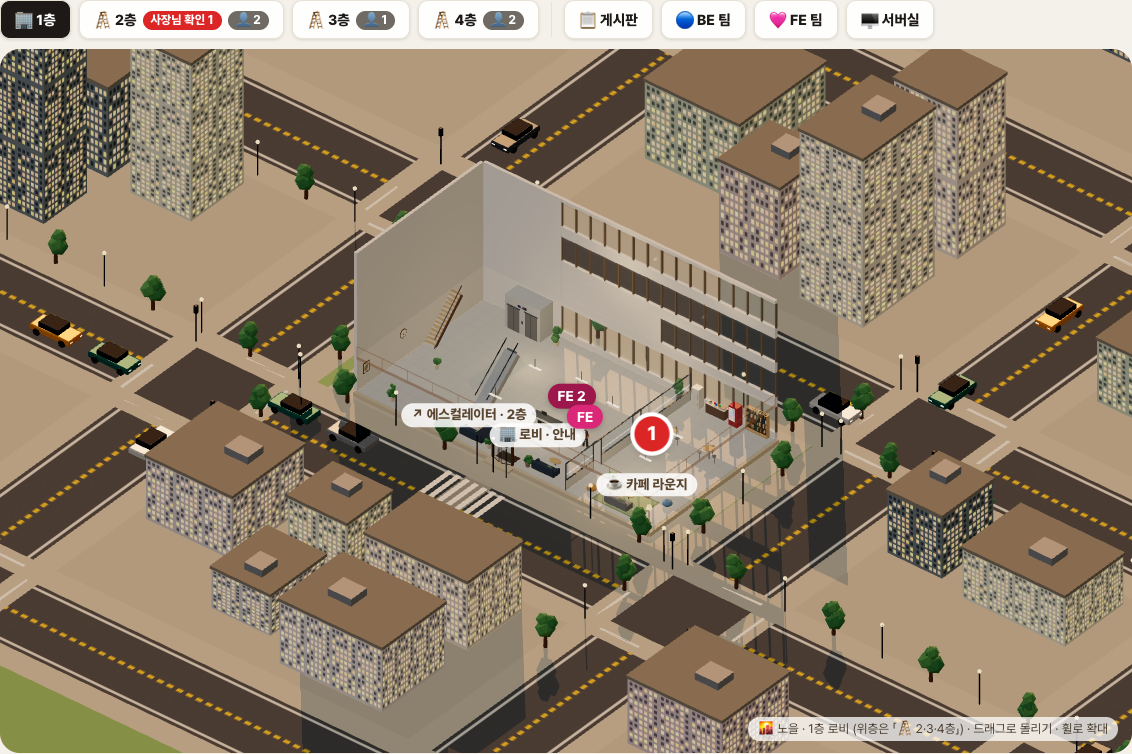
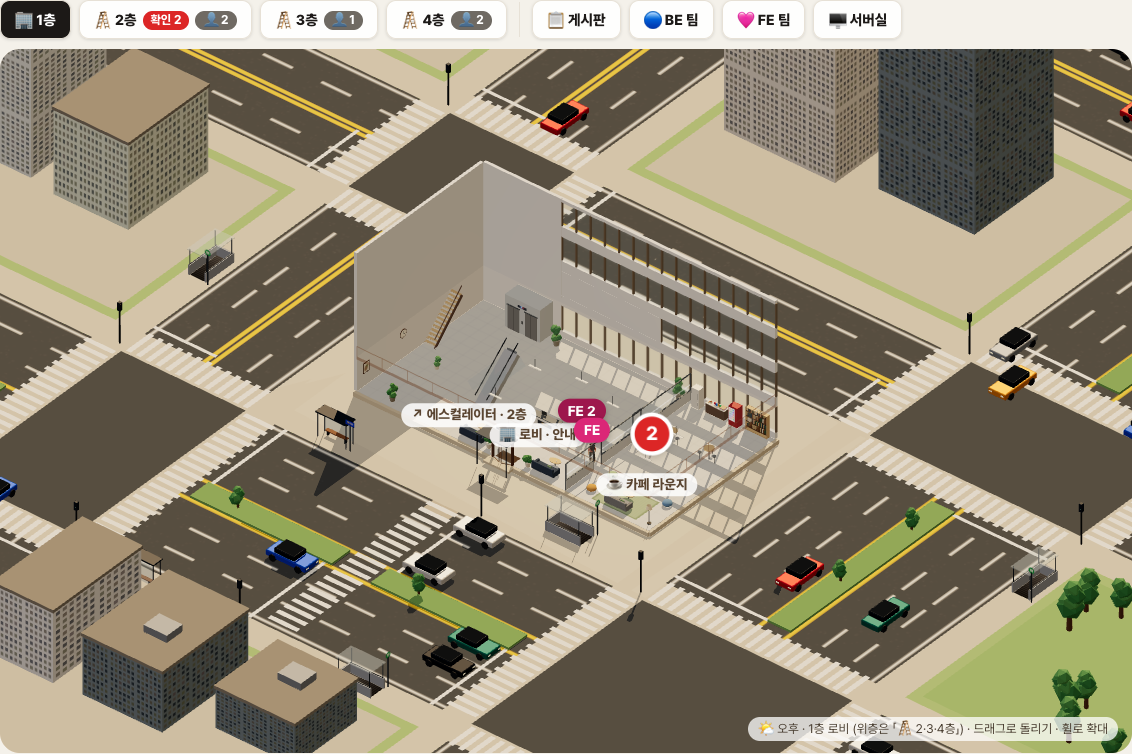
docs(be): 10월 개발분 반영 — 트러블슈팅 §28~32·결정 §23~26, 에이전트 사무실(강남식 도로·날씨·오더 첨부·보류·라벨 상태 버그)
서비스
- 트러블슈팅 §28 홈 p99 — 페르소나 9칸 통째 읽기 → 쓰는 칸만(데이터 −89%, 5초 초과 하루 26.7 → 15~18)
  §29 외부 API 대기 무제한 + 트랜잭션 안 호출(카카오 로그인, 광고 수집 배치) §30 모델 세대별 tool_choice 400
  §31 리포트 캐시 버전 경합 §32 IDENTITY 즉시 INSERT 로 같은 말이 AI 입력에 두 번(에이전트 파이프라인이 찾아 고친 건)
- 결정 §23 휴면 후보 제외 + 모자랄 때만 채우기(응답률 11.3 → 25.9%) §24 조회 알림 2시간 묶음(조건부 UPDATE 차지)
  §25 신규 홈 A/B — 진 실험과 forced_variant 종료 §26 「같은 선택」 일치율 기준 + 섞기
- README 운영 범위(랜덤TALK·실험 틀·휴면 채우기·조회 알림 묶음), 트러블슈팅 32건

에이전트 사무실(docs/agent/agent-office.md)
- §8 바깥: 도로를 데이터로(큰길 편도 3차로·중앙 녹지), 교차로·정지선·우측통행·버스·지하철·날씨, 스크린샷 3장
- §12 오더와 카드: 캡처 첨부(맥에만 저장), 보류 라벨, 라벨 정리를 한 입구에만 둔 버그 2건

diff --git a/docs/agent/agent-office.md b/docs/agent/agent-office.md
@@ -17,11 +17,12 @@
 5. [사람 — 에이전트 7명과 직원 18명](#5-사람--에이전트-7명과-직원-18명)
 6. [서버실 — PLG·Uptime Kuma 연동](#6-서버실--plguptime-kuma-연동)
 7. [탕비실 커피머신 — 에이전트 사용량](#7-탕비실-커피머신--에이전트-사용량)
-8. [바깥 — 도로·신호등·차](#8-바깥--도로신호등차)
+8. [바깥 — 강남식 도로·버스·지하철·날씨](#8-바깥--강남식-도로버스지하철날씨)
 9. [3D 모델 — GPT 로 절차적 생성](#9-3d-모델--gpt-로-절차적-생성)
 10. [맥 mini 한 대에서 가볍게 돌리기](#10-맥-mini-한-대에서-가볍게-돌리기)
 11. [점검 방법](#11-점검-방법)
-12. [밟은 함정](#12-밟은-함정)
+12. [오더와 카드 — 라벨이 곧 상태다](#12-오더와-카드--라벨이-곧-상태다)
+13. [밟은 함정](#13-밟은-함정)
 
 ---
 
@@ -31,12 +32,13 @@
 |---|---|
 | 에이전트가 자리에 앉아 타이핑하고 머리 위에 말풍선이 뜬다 | 그 역할의 Claude 세션이 지금 도구를 쓰는 중이고, 말풍선은 지금 하는 일(「`OrderService.java` 수정」「테스트 실행」) |
 | 에이전트가 2층 대표실 서류함으로 걸어간다 | 사람 승인이 필요한 카드가 생겼다(PR 머지·기획 질문) |
-| 층 버튼의 빨간 배지 「사장님 확인 2」 | 승인 대기 카드 수 |
+| 층 버튼의 빨간 배지 「확인 2」 | 승인 대기 카드 수 |
 | 4층 서버실 랙의 경광등이 주황·빨강으로 바뀐다 | 운영 서버 5xx·응답 지연·DB 연결 포화(§6) |
 | 3층 탕비실 커피머신 「커피 남은 양 · 5시간 76% · 7일 52%」 | 에이전트 계정의 남은 사용량(§7) |
 | 직원 18명이 일하고 커피를 마시고 회의실에 다녀온다 | 장식. 에이전트가 쉬는 동안에도 사무실이 비어 보이지 않게 |
+| 바깥에 차·버스가 다니고 가끔 비·눈이 온다 | 장식(§8). 운영 데이터와는 무관 |
 
-화면 오른쪽에는 운영 패널이 붙어 있다. 오더 넣기(평소 말투로 요청을 쓰면 PM 에이전트가 이슈로 만든다), PM 자율 점검, 일하는 중인 에이전트와의 대화창, 「사장님이 볼 것」 목록이 있다. 이 문서는 왼쪽 3D 화면과 그 뒤 데이터 연결을 다룬다.
+화면 오른쪽에는 운영 패널이 붙어 있다. 오더 넣기(평소 말투로 요청을 쓰고 캡처를 붙이면 PM 에이전트가 이슈로 만든다), PM 자율 점검, 일하는 중인 에이전트와의 대화창, 「사장님이 볼 것」·「진행 중」·「⏸ 보류」 목록이 있다. 이 문서는 왼쪽 3D 화면과 그 뒤 데이터 연결을 주로 다루고, 패널 쪽은 §12 에서 라벨 상태 관리만 다룬다.
 
 ## 2. 전체 구조
 
@@ -236,26 +238,47 @@ DB 랙은 「대기 > 0」이면 바로 빨강이다. 커넥션 풀에서 대기
 - 결과는 5분 캐시한다. 토큰은 이 호출에만 쓰고 응답·로그에 남기지 않는다.
 - ⚙ 설정 창에서 계정별 사용량과 초기화 시각을 본다.
 
-## 8. 바깥 — 도로·신호등·차
+## 8. 바깥 — 강남식 도로·버스·지하철·날씨
 
-건물만 있으면 허공에 떠 보여서 도시 블록을 둘렀다.
+건물만 있으면 허공에 떠 보여서 도시 블록을 둘렀다. 처음엔 왕복 2차로 고리 하나였는데, 「강남 같은 큰길」을 주문받아 도로를 **데이터로** 다시 짰다.
 
-- **도로 고리 2개**(안쪽·바깥쪽)와 인도·횡단보도, 교차로 바닥과 정지선을 깔았다. 블록마다 빌딩 높이를 다르게 하고, 화면 앞쪽과 오른쪽 블록은 낮게 둬서 사무실을 가리지 않게 했다. 일부 블록은 공원이다.
-- **신호등**: 안쪽 교차로에만 세웠다. 가로 방향과 세로 방향이 12초씩 번갈아 초록이 된다. 신호 판정은 `Date.now()` 로 계산하므로 탭을 오래 숨겼다 돌아와도 어긋나지 않는다.
-- **차 24대**: 차선마다 한 방향으로 돈다. 빨간불이면 다음 교차로 정지선 앞에서 서고, 이미 정지선을 넘었으면 그대로 지나간다. 같은 차선의 앞차와는 6m 간격을 둔다.
+| 1층 로비와 건물 앞 큰길 | 밤 |
+|---|---|
+| ![도시](./images/agent-office/office-city.png) | ![밤](./images/agent-office/office-night.png) |
+
+### 도로는 숫자 넷으로
 
 ```js
-// 빨간불이면 다음 교차로 정지선 앞에서 선다
-if (c.axis !== signalAxis) for (const k of (c.axis === "x" ? XS : ZS)) {
-  const gap = (k - c.dir * STOP - c.s) * c.dir - 2.1;
-  if (gap > -0.5 && gap < move + 0.05) { move = Math.max(0, Math.min(move, gap)); break; }
-}
-// 앞차와 간격(같은 차선)
-for (const o of CARS) { if (o === c || o.axis !== c.axis || o.at !== c.at) continue;
-  const gap = (o.s - c.s) * c.dir - 6.0; if (gap > -4 && gap < move) move = Math.max(0, gap); }
+const LANE = 3.2, SIDE_W = 3.0, CW = 3.0;   // 차로 폭·인도 폭·횡단보도 폭
+const RD = (axis, c, lanes, median = 0) => ({axis, c, lanes, median, w:2 * lanes * LANE + median, hw:lanes * LANE + median / 2});
+const RF = RD("x", 26, 3, 2.4), RB = RD("x", -20, 2), RL = RD("z", -27, 2), RR = RD("z", 31, 3, 2.4);   // 앞·오른쪽은 큰길(편도 3차로 + 중앙 녹지)
 ```
 
-- 시간대에 따라 하늘과 조명이 바뀐다(오전·오후·노을·밤). 밤에는 빌딩 창에 불이 켜진다.
+길 하나를 「방향·가운데 위치·편도 차로 수·중앙 분리대 폭」으로 적으면 나머지가 전부 여기서 나온다.
+
+- **노면 그림**: 길마다 캔버스 텍스처를 그린다(1m = 8px). 바깥 흰 실선, 차로 사이 흰 점선, 분리대가 없으면 가운데 노란 겹실선, 있으면 분리대 양옆 노란 실선.
+- **중앙 분리대**: 교차로와 횡단보도 자리를 비운 구간만 화단 상자 + 작은 나무로 채운다. 「엇갈리는 길 목록 → 비울 구간」을 정렬해 사이만 깐다.
+- **교차로**: 엇갈리는 두 길의 폭으로 바닥을 덮고, 네 방향 모두 횡단보도. 정지선은 횡단보도 앞, **들어오는 쪽 차로에만** 긋는다.
+- **블록**: 길 가장자리 + 인도로 띠를 잘라 남는 칸이 블록이다. 가운데 칸(우리 건물)은 통째로 인도라서 건물 앞이 7m 남짓한 광장이 된다.
+- **가로수·가로등**: 연석을 따라 8m 간격. 교차로·횡단보도·버스 정류장·지하철 출입구 자리는 「예약 영역」으로 두고 비켜 심는다.
+
+### 차·버스·신호
+
+- **우측통행**: 차로 위치는 `laneAt(길, 방향, i) = c ± (median/2 + (i + 0.5)·LANE)`. 가로 길에서 +x 로 가는 차는 +z 쪽 차로다(진행 방향 × 위쪽 = 오른쪽).
+- **정지 지점은 길마다 목록**이다. 엇갈리는 길의 정지선 + 건물 앞 큰길 한가운데 횡단보도. 빨간불이면 다음 정지 지점 앞에 서고, 이미 넘었으면 그냥 지나간다. 신호는 `Date.now()` 로 계산해 탭을 오래 숨겼다 돌아와도 어긋나지 않는다(가로·세로 14초씩).
+- **차 길이를 반영한 간격**: 버스(9.6m)를 넣자 고정값 「앞차와 6m」로는 뒤차가 버스에 박혔다. 간격과 정지선 거리를 `(앞차 길이 + 내 길이)/2 + 2m`, `내 길이/2` 로 바꿨다.
+- **버스**: 큰길 바깥 차로를 돌다 정류장 앞에서 7초 서고 간다(한 바퀴에 한 번). 정류장은 길 양쪽, 유리벽·지붕·의자·표지판.
+- **지하철 출입구 4곳**: 건물 앞 광장, 큰길 건너편, 좌우 길 건너. 내려가는 계단(단마다 어두워지는 텍스처)·난간·유리 지붕·「M」 간판. 간판은 가로등과 같은 목록에 넣어 밤에 빛난다.
+- 차는 70여 대다. 앞차 찾기가 O(n²)지만 70²이면 프레임당 5천 번 남짓이라 그대로 뒀다.
+
+### 날씨
+
+![비](./images/agent-office/office-rain.png)
+
+- **40분 단위로 정하고, 같은 시간대면 창마다 같다.** 난수 대신 `slot = floor(now / 40분)` 의 해시로 고른다. 계절 확률: 10월 비 18%·눈 3%, 12~2월 비 4%·눈 22%.
+- **비 = 선분 2,600개**(LineSegments, 위·아래 점 한 쌍), **눈 = 점 1,800개**(Points, 원형 그라데이션 텍스처, 좌우로 흔들림). 위치 배열을 프레임마다 직접 갱신한다.
+- **건물 안에는 안 내린다.** 위층을 숨기고 내려다보는 화면이라, 건물 위에도 내리면 사무실 안에 비가 온다. 입자를 다시 놓을 때 건물 바닥 영역 밖에서만 뽑는다.
+- 비·눈이면 하늘을 잿빛으로 섞고 햇빛을 45% 로 줄인다. `?weather=rain|snow|clear` 로 미리 본다.
 
 ## 9. 3D 모델 — GPT 로 절차적 생성
 
@@ -327,7 +350,37 @@ image-to-3D 모델이나 외부 3D 생성 서비스는 쓰지 않았다. 대신 
 
 캡처는 Chrome 원격 디버깅(CDP)으로 페이지를 열고 **35초 기다린 뒤** 찍는다. `--screenshot` 옵션으로 바로 찍으면 GLB 25개가 아직 로딩 중이라 사람이 없는 사무실이 찍힌다.
 
-## 12. 밟은 함정
+## 12. 오더와 카드 — 라벨이 곧 상태다
+
+일의 상태는 GitHub 이슈 라벨이다(`명세 → 착수 → 준비 완료 → BE 작업 → BE 완료 → QA → 승인 대기`, 막히면 `막힘`). 사무실 화면도, 일꾼(`worker.sh`)도 라벨만 보고 움직인다. 그래서 **라벨을 떼고 붙이는 모든 경로가 상태 전이**이고, 한 경로라도 정리를 빼먹으면 화면이 거짓말을 한다.
+
+### 오더에 캡처 붙이기
+
+- 오더 칸에 붙여넣기(⌘V)·끌어 놓기로 최대 5장. 5MB 가 넘으면 브라우저에서 긴 변 2400px JPEG 로 줄여 보낸다. 서버는 MIME·크기를 **이슈를 만들기 전에** 검사한다(잘못된 첨부로 이슈만 생기지 않게).
+- 이미지는 **깃허브에 올리지 않는다.** 이슈 API 에는 공식 첨부 업로드가 없고, 에이전트는 같은 맥에서 돌기 때문이다. `~/work/orders/<이슈>/1.png` 에 두고, PM·담당 프롬프트에 경로를 붙이고 `claude -p --add-dir ~/work/orders` 로 읽기를 연다. PM 지시문에는 「이미지가 가리키는 것을 명세 본문에 글로 풀어 적어라」를 넣었다 — 뒤 담당이 이미지 없이도 일할 수 있게.
+- 뒷정리 스크립트(10분마다)가 이슈가 닫히고 7일, 열려 있어도 30일 지난 폴더를 지운다. 날짜만 보면 진행 중인 오더의 이미지가 지워진다.
+
+### 보류 — 덮어쓰는 라벨
+
+`agent:보류` 는 단계 라벨을 **떼지 않고 덧붙인다.** 그래서 풀면 하던 단계 그대로 이어진다.
+
+```bash
+# worker.sh — 할 일 후보에서 보류를 먼저 거른다(jq)
+[.[] | {n:.number, c:.createdAt, l:[.labels[].name]} | select(has("agent:보류")|not) | $mode as $m | ...]
+```
+
+화면 쪽은 `colsOf()`(게시판 칸)와 `holder_of()`(넘김 이력) 맨 앞에서 보류를 판정해 목록에서 빼고, 접힌 「⏸ 보류」 칸에만 보인다.
+
+### 라벨 정리를 빼먹은 경로 두 개
+
+1. **질문했더니 카드가 「접수」로 돌아갔다(#75).** 카드에서 「다시 맡기기」로 질문하면 `승인 대기` 를 떼고 `질문` 을 붙인다(PM 이 담당에게 고칠 걸 넘길 수 있게). PM 이 「고칠 것 없음」이라고 답만 하면 `질문` 만 떼고 끝났다. 단계 라벨이 하나도 안 남아 화면 판정이 기본값(PM·접수)으로 떨어졌고, 머지만 남은 카드가 사장님 목록에서 사라졌다.
+   → 뗄 때 **실제로 붙어 있던 단계 라벨을 기록**해 두고(`~/work/state/redo-prev/<이슈>.json`), PM 이 답만 하면 되붙인다. 다시 맡기면 기록을 버린다.
+2. **작업 중인데 「맡길지 사장님」으로 떴다(#79).** PM 자율 점검이 올린 일은 `발견 대기`(맡기기 전) 라벨을 달고, 「▶ 맡기기」 버튼이 이걸 뗀다. 그런데 「다시 맡기기」로 시작하면 PM 이 `준비 완료` 만 붙이고 `발견 대기` 는 남겼다. 화면은 `발견 대기` 를 최우선으로 사장님 칸에 보내므로 FE QA 중인 카드가 사장님 목록에 떴다.
+   → 「담당에게 넘김」 분기에서 `발견 대기` 도 같이 뗀다.
+
+두 버그 모두 **같은 상태(일 시작)에 들어가는 입구가 둘인데 정리는 한 입구에만 있었던** 경우다. 라벨을 상태로 쓰면 상태 머신이 코드 한곳에 모이지 않는다. 그래서 입구가 하나 늘 때마다 「이 상태에 들어갈 때 떼야 할 라벨」을 같이 적어 둔다.
+
+## 13. 밟은 함정
 
 | 증상 | 원인 | 해결 |
 |---|---|---|
@@ -336,6 +389,10 @@ image-to-3D 모델이나 외부 3D 생성 서비스는 쓰지 않았다. 대신 
 | 버튼을 옮긴 뒤 화면이 세로로 늘어났다 | `window.resize` 만 들어서 부모 높이 변화를 못 봤다 | `ResizeObserver` |
 | 사무실이 늘 비어 보였다 | 에이전트가 일이 없으면 휴게 공간으로 가 앉아 있게 했다 | 기본을 「자리에서 일하기」로 바꾸고, 쉬는 행동은 2~5분에 하나 |
 | 헤드리스 캡처에 사람이 없었다 | 모델 로딩 전에 찍혔다 | CDP 로 열고 35초 대기 후 캡처 |
+| 버스를 넣자 뒤차가 버스에 박혔다 | 앞차 간격·정지선 거리가 차 길이 4.1m 기준 상수(6m, 2.1m) | 차마다 `len` 을 두고 `(앞차+내 길이)/2 + 2m`, `내 길이/2` |
+| 비가 사무실 안에 내렸다 | 위층을 숨긴 내려다보기 화면이라 지붕이 없다 | 입자를 건물 바닥 영역 밖에서만 뽑음 |
+| 도시를 새로 짜자 페이지가 안 떴다 | 바깥 구역에 쓴 `SW`·`freeSpot`·`flat` 이 건물 구역 이름과 겹쳐 `already declared` | 바깥 구역 이름을 구체적으로(`SIDE_W`·`curbFree`·`flatAt`). 한 파일 한 스코프의 대가 |
+| 질문 후 카드가 「접수」로, 작업 중 카드가 「사장님 확인」으로 | 라벨 정리가 상태에 들어가는 입구 하나에만 있었다 | §12 |
 
 ---
 

diff --git a/docs/ops/troubleshooting.md b/docs/ops/troubleshooting.md
@@ -670,6 +670,73 @@ UPDATE users SET af_registration_sent_at = :now WHERE id = :userId AND af_regist
 
 **교훈** — §25 의 판정 자체(조회 대신 조건부 UPDATE 한 문장)는 맞았습니다. 틀린 건 **판정의 근거로 삼은 값이 다른 경로에 의해 되돌려질 수 있다**는 점을 못 본 것입니다. "이 전이는 한 번뿐"이라는 전제는 그 칼럼을 아무도 되돌리지 않는다는 가정 위에 서 있고, 그 가정은 엔티티 전체를 저장하는 코드 한 줄로 깨집니다. 멱등의 근거는 **그 의미만 가진 전용 칼럼**에 두는 편이 안전합니다. → [함정 B-4](./pitfalls.md)
 
+## 28. 홈이 가끔 5초 넘게 멈췄다 — 카드에 한 줄 쓰려고 후보 수백 명의 JSON 9칸을 통째로 읽었다
+
+**증상** — 운영 nginx 로그(9/29~10/6, 홈 추천 두 API 14,261건): p50 0.14초인데 p99 6.55초, 5초 넘는 요청이 하루 25건 남짓. 대표 계정이 홈에서 29.5초 멈춘 날도 있었습니다.
+
+**원인** — 홈 카드에 필요한 건 페르소나의 **성격 한 줄**인데, 후보 조립 코드가 후보 전원의 페르소나 엔티티를 통째로 읽었습니다. 페르소나는 LONGTEXT 9칸(운영 평균 약 10.8KB)이라 후보 수백 명이면 수 MB 입니다. 공용 DB 의 버퍼 풀(128MB)에 이게 자주 밀려나 디스크를 읽었습니다.
+
+**처리** — 화면마다 **쓰는 칸만** 조회하는 프로젝션 3개를 만들었습니다(추천 카드 = 성격, 오늘의 인연 = 유형명, 홈 테마·피드 = 축 점수). 조건은 기존 조회(`user inner join`, 활성만)와 똑같이 두고, 로컬 DB 전원을 대상으로 **예전 조회와 새 조회의 결과가 같은지** 테스트로 고정했습니다. 응답 형태는 그대로라 앱 변경이 없습니다.
+
+| 로컬 실측(395명) | 전 | 후 |
+|---|---|---|
+| 추천 카드 조회 | 15.1ms | 2.9ms (데이터 −89%) |
+| 홈 테마 | — | 1.8ms (데이터 −99%) |
+| 유형명 | — | 8.7ms (데이터 −46%) |
+
+**결과** — 운영 5초 넘는 요청이 하루 평균 26.7건(배포 전 1주)에서 15~18건으로 약 40% 줄었습니다(배포 후 이틀 표본). 남은 꼬리는 따로 확인했습니다. 10초 넘는 요청은 그 시각 사용자가 한 명뿐인데도 1행 INSERT 까지 14초가 걸렸습니다. 커넥션 풀 대기 0, GC 0 이라 **앱이 아니라 공용 DB 자체의 정체**로 판단했고, 근본 대책(전용 DB 분리)은 [공용 DB 이웃 분석](./shared-db-neighbor-query.md)과 같은 줄기로 넘겼습니다.
+
+**교훈** — 엔티티를 통째로 읽는 건 「지금 필요한 것」이 아니라 「언젠가 필요할지 모르는 것」까지 읽는 일입니다. 행 수가 아니라 **행 크기**가 병목일 때는 칸을 고르는 것만으로 크게 줄어듭니다.
+
+## 29. 카카오가 응답을 안 주자 로그인이 30초 뒤 500 — 대기 시간 무제한 + 트랜잭션 안 외부 호출
+
+**증상** — nginx 로그에 카카오 로그인이 30초 뒤 500 으로 끝난 요청이 7일에 3건.
+
+**원인 둘이 겹쳤습니다.**
+1. 외부 API 공용 `RestTemplate` 빈이 `new RestTemplate()` 이었습니다. **연결·응답 대기가 무제한**입니다. 카카오가 응답을 안 주면 요청 스레드가 그냥 기다립니다.
+2. 카카오 호출이 `@Transactional` 안에 있어서, 기다리는 동안 **DB 커넥션도 붙잡았습니다.** 외부 쪽 문제가 우리 커넥션 풀 고갈로 번질 수 있는 구조입니다.
+
+**처리**
+- 공용 `RestTemplate` 에 연결 3초·응답 10초 제한(카카오·네이버·애플 로그인, NICE, 광고 전송에 적용).
+- 같은 모양을 광고 수집 배치에서도 찾았습니다. 메타 캠페인·시간대 수집 전체에 `@Transactional` 이 걸려 있어, 외부 조회(요청당 30초, 최대 20쪽) 동안 앱과 같은 풀(최대 30)의 커넥션 하나를 매시간 잡고 있었습니다. **조회는 트랜잭션 없이 먼저, 받은 목록의 upsert 만 짧은 트랜잭션**으로 쪼갰습니다(`@Lazy self` 자기 주입). 테스트로 「조회 시점엔 트랜잭션 비활성, 저장 시점엔 활성」과 재수집 멱등을 고정했습니다.
+
+**교훈** — [§18](#18-ai-응답을-기다리는-40초-동안-db-커넥션을-붙잡고-있던-것-) 에서 세운 원칙(트랜잭션 안에서 외부를 부르지 않는다)은 한 번 고친다고 끝나지 않습니다. 새 연동이 들어올 때마다 같은 모양이 다시 생깁니다. 그리고 그 원칙은 **외부 호출에 타임아웃이 있다**는 전제가 있어야 의미가 있습니다. 둘을 같이 점검해야 합니다.
+
+## 30. 백오피스에서 모델만 바꿨는데 기능이 400 — 「이 프로바이더는 스키마 강제를 지원한다」가 모델 세대마다 달랐다
+
+**증상** — 10/15 OpenAI 크레딧이 바닥나(429) 피드 소개글 초안을 Claude 로 옮기자 400. 10/8 랜덤TALK 출시 때와 같은 오류였습니다.
+
+**원인** — 구조화 출력(JSON 스키마 강제)을 쓸지 정하는 `supportsSchema` 가 **프로바이더만 보고** true 를 줬습니다. 그런데 Claude 5 세대 모델은 `tool_choice: {type: "tool"}`(특정 도구 강제)를 400 으로 거절합니다. 모델은 백오피스 설정(`ai_settings`)에서 바뀌는데, 코드는 모델을 보지 않았습니다.
+
+**처리** — `AiModel.supportsForcedToolChoice` 를 두고 **모델 이름의 세대 규칙**으로 판정합니다(5 세대는 미지원). 목록에 모델을 하나씩 적는 방식이 아니라서, 새 모델이 나와도 누락이 없습니다. 이미 있던 temperature 규칙과 같은 방식입니다. 미지원이면 기존의 「텍스트 + JSON 힌트」 경로로 갑니다(호출 횟수 그대로). 랜덤TALK 는 처음부터 「본문 + 끝 줄 마커(`[[CROSSED_LINE]]`)」로 판정을 받게 바꿨습니다 — [결정 §11](../design/engineering-decisions.md#11-llm-채점-응답--형식을-강제할-수-있는가보다-깨졌을-때-무엇을-잃는가) 과 같은 판단.
+
+**교훈** — 설정으로 바꿀 수 있는 값(모델)에 따라 동작이 갈리면, 코드는 **설정을 읽고 판정**해야 합니다. 「지금 쓰는 모델은 된다」는 배포 시점의 사실일 뿐입니다.
+
+## 31. 재분석했는데 리포트가 옛 내용으로 굳었다 — 생성에 쓴 버전이 아니라 저장할 때 다시 읽은 버전을 찍었다
+
+**증상** — 페르소나를 다시 분석했는데 리포트가 갱신되지 않는 회원이 있었습니다.
+
+**원인** — 리포트는 페르소나 버전으로 캐시합니다. AI 생성(수 초~20초)을 시작한 뒤 그 사이에 재분석이 커밋되면, 저장 단계에서 다시 읽은 페르소나는 **이미 새 버전**입니다. 그 버전 번호를 캐시에 찍으니 「옛 내용 + 새 버전 번호」가 저장되어, 이후로는 캐시 히트라 다시 만들지 않았습니다.
+
+**처리** — 캐시 버전은 **생성에 입력으로 쓴 페르소나의 버전**으로 저장합니다. 그 사이 재분석이 있었다면 버전이 안 맞아 다음 조회 때 다시 만들어집니다.
+
+**교훈** — 「무엇으로 만들었나」와 「저장할 때 최신은 무엇인가」는 다른 값입니다. 오래 걸리는 생성 결과에 버전을 붙일 때는 **입력의 버전**을 붙여야 경합이 자연스럽게 풀립니다.
+
+## 32. 보낸 말이 AI 입력에 두 번 들어갔다 — IDENTITY 키는 save() 순간 INSERT 된다
+
+**증상** — AI 대화에서 사용자가 보낸 말이 프롬프트의 [대화 기록] 끝과 [새 메시지]에 똑같이 두 번 실렸습니다. 또 AI 호출이 실패하면 앱은 말풍선을 지우는데 서버에는 메시지가 남아, 다시 들어가면 답 없는 말이 보이고 다음 AI 입력에도 계속 섞였습니다.
+
+**원인** — 메시지 id 가 `IDENTITY` 라 `save()` 가 플러시를 기다리지 않고 **바로 INSERT** 됩니다. 같은 트랜잭션에서 그다음에 읽은 「최근 대화」가 방금 저장한 메시지까지 가져왔습니다.
+
+**처리**
+- 대화 기록을 **저장 전에** 읽습니다(랜덤TALK 가 이미 쓰던 순서).
+- AI 호출이 실패하면(예외·빈 본문) 이번 사용자 메시지를 짧은 트랜잭션으로 지우고 원래 오류(503)를 그대로 던집니다. 삭제가 실패해도 원래 오류를 덮지 않습니다.
+- 저장을 AI 응답 뒤로 미루지 않은 이유: 사용자·AI 메시지가 같은 순간 INSERT 되면 `created_at` 이 겹쳐 목록 정렬이 흔들릴 수 있습니다.
+
+이 건은 [AI 에이전트 파이프라인](../agent/agent-pipeline.md)의 PM 자율 점검이 찾아 올렸고, BE 에이전트가 고치고 QA 에이전트가 스테이징에서 확인한 뒤 사람이 머지했습니다.
+
+**교훈** — 「저장하고 나서 읽는다」와 「읽고 나서 저장한다」는 키 생성 전략에 따라 결과가 다릅니다. JPA 의 쓰기 지연을 믿고 순서를 정하면 `IDENTITY` 에서 깨집니다.
+
 ---
 
 공통적으로: **증상을 코드로 추측하기 전에 로그·DB·실제 API 응답으로 원인을 먼저 정량 확인**하는 것을 우선했습니다. 9번처럼 재현이 확률적인 경우에는 **실패 조건을 강제로 만들어 수정 전/후를 대조**했습니다.
